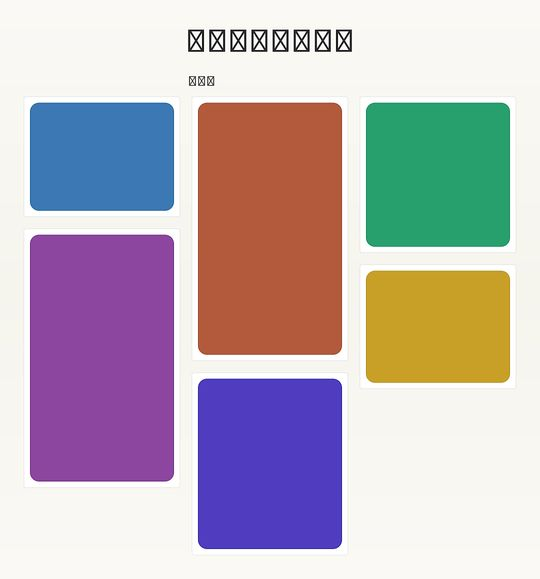
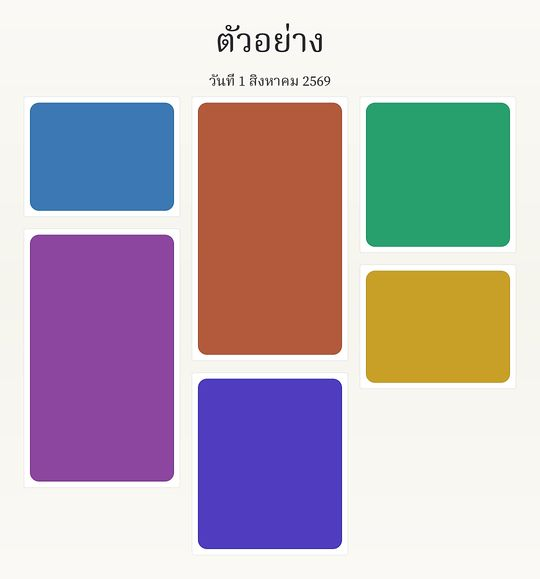
fix(claude): render Thai with Noto Serif Thai (Latin with Source Serif 4)

Changed region(s): [[0.3259, 0.0311, 0.6519, 0.0933], [0.3556, 0.1244, 0.6222, 0.1554]]

diff --git a/backend/design-system/core/sharp-renderer.js b/backend/design-system/core/sharp-renderer.js
@@ -67,6 +67,44 @@ function pickFont(manifest) {
   return monoFont;
 }
 
+/** Split text into runs: Thai chars → thaiFont, everything else → base font */
+function splitTextRuns(text, isThai) {
+  const runs = [];
+  let cur = '', curThai = null;
+  for (const ch of text) {
+    const th = isThai(ch);
+    if (cur && th !== curThai) { runs.push({ text: cur, thai: curThai }); cur = ''; }
+    curThai = th; cur += ch;
+  }
+  if (cur) runs.push({ text: cur, thai: curThai });
+  return runs;
+}
+
+/** Render text with per-script fonts (Latin serif + Thai serif fallback). */
+function textPathSVGMulti(text, baseFont, thaiF, size, { x, y, align = 'left', color = '#fff', glow = null }) {
+  if (!thaiF) return textPathSVG(text, baseFont, size, { x, y, align, color, glow });
+  const isThaiCh = (ch) => /[\u0E00-\u0E7F]/.test(ch);
+  const runs = splitTextRuns(text, isThaiCh);
+  // compute total width for centering
+  let totalW = 0;
+  for (const r of runs) totalW += (r.thai ? thaiF : baseFont).getAdvanceWidth(r.text, size);
+  let tx = align === 'center' ? x - totalW / 2 : align === 'right' ? x - totalW : x;
+  const filter = glow ? ` filter="url(#hglow)"` : '';
+  let extra = '';
+  if (glow) {
+    extra = `<defs><filter id="hglow" x="-50%" y="-50%" width="200%" height="200%">` +
+      `<feGaussianBlur stdDeviation="${glow}" result="b"/><feMerge><feMergeNode in="b"/><feMergeNode in="SourceGraphic"/></feMerge></filter></defs>`;
+  }
+  let out = '';
+  for (const r of runs) {
+    const f = r.thai ? thaiF : baseFont;
+    const path = f.getPath(r.text, 0, 0, size).toSVG(2);
+    out += `<g${filter} fill="${color}" transform="translate(${tx} ${y})">${path}</g>`;
+    tx += f.getAdvanceWidth(r.text, size);
+  }
+  return extra + out;
+}
+
 /** Draw text as SVG path (opentype), centered or left-aligned.
     glitch: RGB-split layers like the 404 hero — [rightColor, leftColor] shadows */
 function textPathSVG(text, font, size, { x, y, align = 'left', color = '#fff', glow = null, glitch = null }) {
@@ -130,7 +168,8 @@ export function renderBackdrop(manifest, { W, H, headerH, name, date, cards }) {
   }
 
   // --- header (name + date, centered, big & clear) ---
-  // serif themes (claude) use Source Serif 4; others use Chakra Petch / Noto Sans Thai
+  // serif themes (claude) use Source Serif 4 for Latin + Noto Serif Thai for Thai;
+  // others use Chakra Petch / Noto Sans Thai
   const ch = c.chrome;
   const hd = c.header || {};
   const useSerif = hd.font === 'serif';
@@ -140,11 +179,14 @@ export function renderBackdrop(manifest, { W, H, headerH, name, date, cards }) {
   const textColor = isLightBg(c) ? '#16161a' : '#ffffff';
   const glowBlur = hd.glow && hd.color ? 8 : null;
   const glitchColors = hd.glitch; // e.g. ['#33ff66', '#ffff00'] — RGB split layers
+  const drawText = useSerif
+    ? (txt, f, sz, o) => textPathSVGMulti(txt, f, thaiSerifFont || null, sz, o)
+    : textPathSVG;
   if (name || date) {
     const hasBoth = !!(name && date);
     if (name) {
       const nameSize = Math.round(headerH * (hasBoth ? 0.30 : 0.34));
-      svg.push(textPathSVG(name, nameFont, nameSize, {
+      svg.push(drawText(name, nameFont, nameSize, {
         x: W / 2, y: Math.round(headerH * (hasBoth ? 0.47 : 0.55)), align: 'center',
         color: hd.glitch ? (hd.color || '#ff3366') : hexToRgba(textColor, 0.9),
         glow: glowBlur, glitch: glitchColors,
@@ -152,7 +194,7 @@ export function renderBackdrop(manifest, { W, H, headerH, name, date, cards }) {
     }
     if (date) {
       const dateSize = Math.round(headerH * 0.13);
-      svg.push(textPathSVG(date, nameFont, dateSize, {
+      svg.push(drawText(date, nameFont, dateSize, {
         x: W / 2, y: Math.round(headerH * (hasBoth ? 0.78 : 0.55)), align: 'center', color: hexToRgba(textColor, 0.8),
       }));
     }
